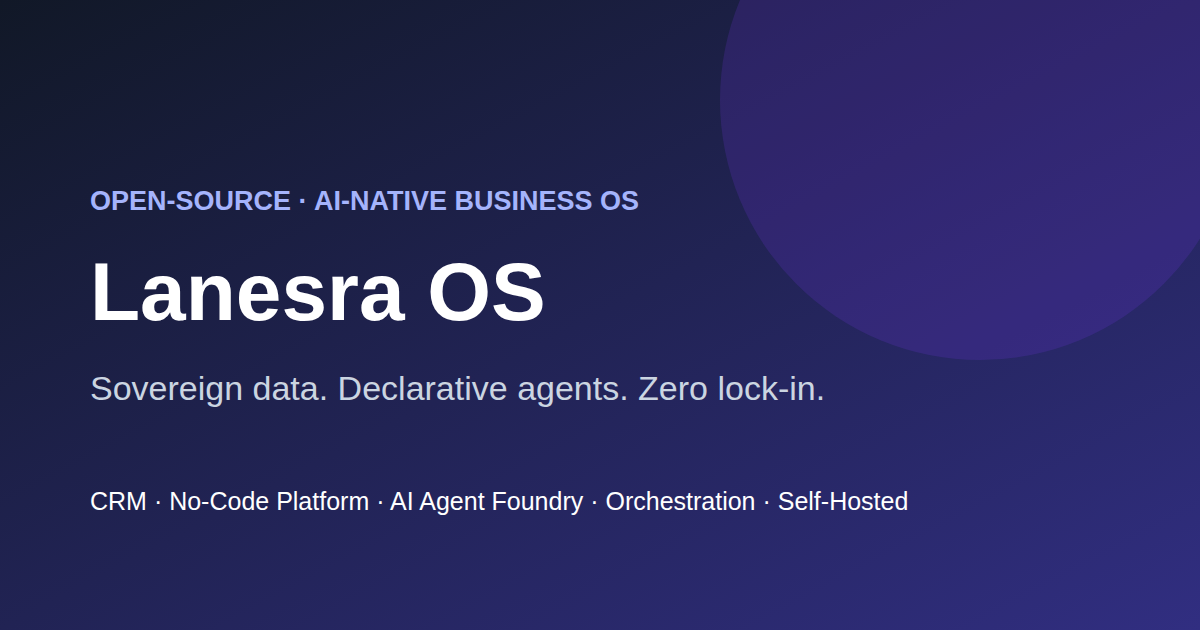
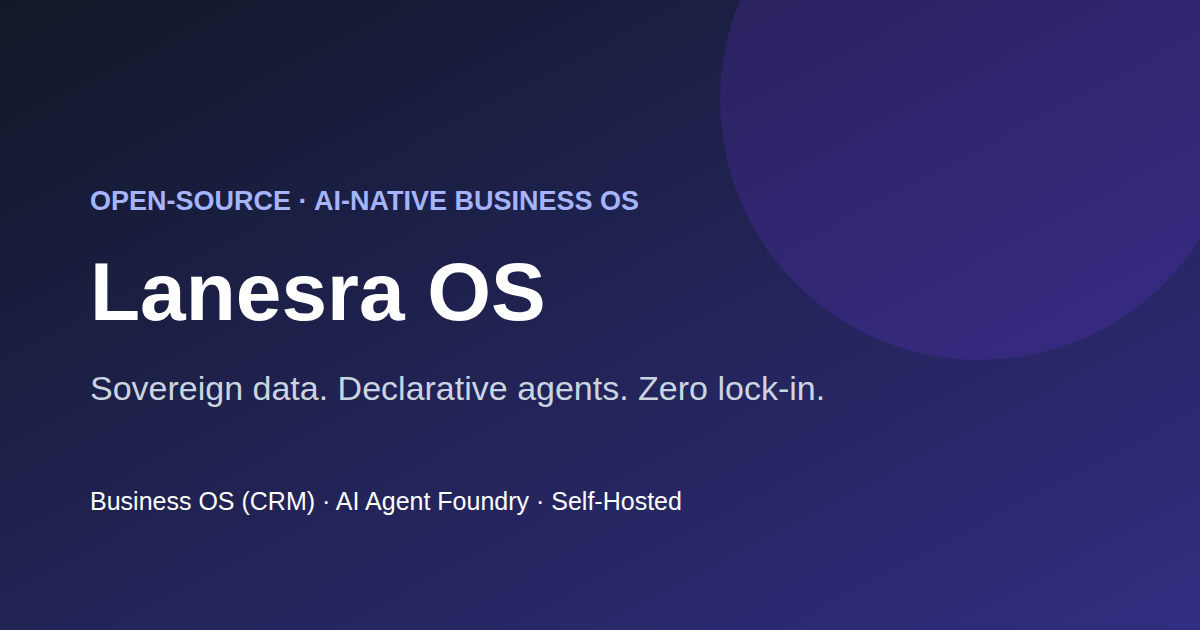
Website/docs copy: sharpen focus to AI Agent Foundry + CRM (Business OS)
The hero already led with this two-pillar story ("Sovereign data.
Declarative agents. Zero lock-in." + "Combine an extensible relational
data model with a unified Agent Foundry...") - this pass carries that
same discipline into the other places product positioning is stated,
which had drifted toward giving 5-6 pillars roughly equal billing:

- social-preview.svg/.png: tag row was "CRM · No-Code Platform · AI Agent
  Foundry · Orchestration · Self-Hosted" (5 items); tightened to
  "Business OS (CRM) · AI Agent Foundry · Self-Hosted". Re-rendered via
  headless Chromium, visually verified.
- index.html: meta description, og:description, twitter:description and
  the JSON-LD SoftwareApplication description all named "a complete CRM,
  a no-code platform... and an AI Agent Foundry" as three co-equal items
  in one list. Reworded so CRM (Business OS) and AI Agent Foundry are the
  two headline nouns, with "the same no-code platform" explicitly framed
  as what both are built on - no facts removed, App Catalog/Deployment
  Management/Integration Hub still named as trailing "Plus" detail.
  applicationSubCategory reordered the same way.
- README.md: opening paragraph reworded the same way; the three Features
  blocks reordered from Make-it-yours-no-code / AI & Agentic Layer / Core
  CRM to Core CRM / AI Agent Foundry / no-code platform, so the two
  headline pillars lead and the no-code platform is explicitly framed as
  what both sit on.
[…]

Changed region(s): [[0.0617, 0.7841, 0.7708, 0.8143]]

diff --git a/index.html b/index.html
@@ -12,11 +12,11 @@
     })
   </script>
   <title>Lanesra OS — The AI-native business operating system</title>
-  <meta name="description" content="Lanesra OS is a free, open-source, self-hostable AI-native business operating system: a complete CRM out of the box, a no-code platform (custom objects, relationships, screens, business rules, workflows, dashboards) to build whatever your business actually runs on, and a real AI Agent Foundry with a Unified AI Gateway - named agents with persona/Actions/Memory/Skills/delegation and guardrails, orchestrated into deterministic Pipelines (sequential, consensus or peer-review) with human-in-the-loop approval gates, OTLP tracing and a real Evaluation Harness, plus embeddings-based Vector Search over your records - routed to Anthropic, OpenAI-compatible or Google Gemini, or a fully local air-gapped model, with automatic failover and token budgets. Plus an App Catalog of 10 ready-to-install industry apps, Deployment Management to package and promote your customizations, and an Integration Hub (REST API, webhooks, connectors, scheduled sync). No licence key, no per-seat pricing, no vendor lock-in. Try it online or run it privately on your desktop." />
+  <meta name="description" content="Lanesra OS is a free, open-source, self-hostable AI-native business operating system: a complete CRM as your Business OS, and a real AI Agent Foundry with a Unified AI Gateway that runs directly on it - named agents with persona/Actions/Memory/Skills/delegation and guardrails, orchestrated into deterministic Pipelines (sequential, consensus or peer-review) with human-in-the-loop approval gates, OTLP tracing and a real Evaluation Harness, plus embeddings-based Vector Search over your records - routed to Anthropic, OpenAI-compatible or Google Gemini, or a fully local air-gapped model, with automatic failover and token budgets. Both are built on the same no-code platform (custom objects, relationships, screens, business rules, workflows, dashboards) you can reshape yourself. Plus an App Catalog of 10 ready-to-install industry apps, Deployment Management to package and promote your customizations, and an Integration Hub (REST API, webhooks, connectors, scheduled sync). No licence key, no per-seat pricing, no vendor lock-in. Try it online or run it privately on your desktop." />
   <meta name="keywords" content="AI-native business operating system, open source CRM, self-hosted CRM, AI agent platform, AI agent framework, model context protocol, MCP server, open source business platform, no-code app builder, low-code platform, Salesforce alternative, HubSpot alternative, custom objects CRM, workflow automation software, CRM with REST API, AI gateway, offline CRM Windows" />
   <link rel="canonical" href="https://lanesraos.com/" />
   <meta property="og:title" content="Lanesra OS — The AI-native business operating system" />
-  <meta property="og:description" content="Sovereign data. Declarative agents. Zero lock-in. A complete CRM, a no-code platform to build on it, and an AI Agent Foundry with orchestration, guardrails, vector search and a Unified AI Gateway - all self-hosted on SQLite, all open source, all running on a model key you control." />
+  <meta property="og:description" content="Sovereign data. Declarative agents. Zero lock-in. A complete CRM as your Business OS, and an AI Agent Foundry that runs directly on it - orchestration, guardrails, vector search and a Unified AI Gateway - built on the same no-code platform you can reshape yourself. All self-hosted on SQLite, all open source, all running on a model key you control." />
   <meta property="og:type" content="website" />
   <meta property="og:url" content="https://lanesraos.com/" />
   <meta property="og:image" content="https://lanesraos.com/social-preview.png" />
@@ -25,7 +25,7 @@
   <meta property="og:image:alt" content="Lanesra OS — the AI-native business operating system" />
   <meta name="twitter:card" content="summary_large_image" />
   <meta name="twitter:title" content="Lanesra OS — The AI-native business operating system" />
-  <meta name="twitter:description" content="Sovereign data. Declarative agents. Zero lock-in. A complete CRM, a no-code platform to build on it, and an AI Agent Foundry with orchestration, guardrails, vector search and a Unified AI Gateway - self-hosted on SQLite, open source, running on a model key you control." />
+  <meta name="twitter:description" content="Sovereign data. Declarative agents. Zero lock-in. A complete CRM as your Business OS, and an AI Agent Foundry that runs directly on it - orchestration, guardrails, vector search and a Unified AI Gateway - self-hosted on SQLite, open source, running on a model key you control." />
   <meta name="twitter:image" content="https://lanesraos.com/social-preview.png" />
   <meta name="theme-color" content="#0A0A0A" />
   <link rel="icon" href="/favicon.svg" type="image/svg+xml" />
@@ -46,9 +46,9 @@
       "@id": "https://lanesraos.com/#software",
       "name": "Lanesra OS",
       "applicationCategory": "BusinessApplication",
-      "applicationSubCategory": "CRM, no-code application platform, AI agent platform, integration platform",
+      "applicationSubCategory": "CRM, AI agent platform, no-code application platform, integration platform",
       "operatingSystem": "Web; Windows desktop in early access (source available)",
-      "description": "A free, open-source and self-hostable AI-native business operating system - a complete CRM out of the box, the same no-code platform for building custom objects, relationships, screens, business rules, workflows, dashboards and reports into whatever a business actually needs, an AI Agent Foundry (named agents with persona/Actions/Memory/Skills/delegation/guardrails) orchestrated into deterministic Pipelines - sequential, consensus or peer-review - with human-in-the-loop approval gates, OTLP tracing and a real Evaluation Harness, a Context Layer with an agent context primer and embeddings-based Vector Search over records, routed through a Unified AI Gateway to Anthropic, OpenAI-compatible or Google Gemini - or a fully local, air-gapped model - with automatic failover and token budgets, an App Catalog of 10 ready-to-install industry apps, Deployment Management to package and version-promote customizations across environments, and an Integration Hub (REST API, webhooks, OpenAPI connectors, scheduled data sync) to connect it to everything else a business already runs.",
+      "description": "A free, open-source and self-hostable AI-native business operating system - a complete CRM out of the box as your Business OS, and an AI Agent Foundry (named agents with persona/Actions/Memory/Skills/delegation/guardrails) that runs directly on it, orchestrated into deterministic Pipelines - sequential, consensus or peer-review - with human-in-the-loop approval gates, OTLP tracing and a real Evaluation Harness, a Context Layer with an agent context primer and embeddings-based Vector Search over records, routed through a Unified AI Gateway to Anthropic, OpenAI-compatible or Google Gemini - or a fully local, air-gapped model - with automatic failover and token budgets. Both the CRM and the Agent Foundry are built on the same no-code platform for shaping custom objects, relationships, screens, business rules, workflows, dashboards and reports into whatever a business actually needs. Plus an App Catalog of 10 ready-to-install industry apps, Deployment Management to package and version-promote customizations across environments, and an Integration Hub (REST API, webhooks, OpenAPI connectors, scheduled data sync) to connect it to everything else a business already runs.",
       "url": "https://lanesraos.com/",
       "isAccessibleForFree": true,
       "softwareVersion": "0.52.0 Early Access",

diff --git a/README.md b/README.md
@@ -5,35 +5,13 @@
 [![PRs welcome](https://img.shields.io/badge/PRs-welcome-brightgreen.svg)](CONTRIBUTING.md)
 [![Try the demo](https://img.shields.io/badge/try%20it-online%20demo-4f7cff)](https://lanesraos.com/demo)
 
-Modern, open-source, AI-native business application platform — a complete CRM out of the box, a no-code admin panel that lets you reshape the workspace itself (your own record types, relationships, screens, business rules and automations, not just the fixed CRM fields), an AI Agent Foundry and Unified AI Gateway that let agents run directly against that same data model, Deployment Management to package and promote your customizations between workspaces, and an Integration Hub to connect it to everything else you run. Run it privately on Windows (offline, no cloud account, no licence key), share it with a small team over your local network, or try it instantly online with no install at all.
+Modern, open-source, AI-native business application platform — a complete CRM as your Business OS, and an AI Agent Foundry and Unified AI Gateway that let named agents run directly against that same data, not a bolted-on chatbot. Both sit on the same no-code admin panel that lets you reshape the workspace itself (your own record types, relationships, screens, business rules and automations, not just the fixed CRM fields), with Deployment Management to package and promote your customizations between workspaces, and an Integration Hub to connect it to everything else you run. Run it privately on Windows (offline, no cloud account, no licence key), share it with a small team over your local network, or try it instantly online with no install at all.
 
 **[Try the demo](https://lanesraos.com/demo)** · **[Download](#download-the-desktop-edition)** · **[Features](#features)** · **[Docs](desktop/README.md)** · **[Contributing](CONTRIBUTING.md)**
 
 ## Features
 
-**Make it yours, no code required:**
-
-- **Custom Objects** — define an entirely new record type (Vendors, Assets, Projects, …) with its own fields, ID format and navigation section, no code change
-- **Custom Relationships** — connect any two record types (built-in or custom) with one-to-one, many-to-one or many-to-many links; a related-records list appears automatically on both sides
-- **Business Rules** — multi-condition AND/OR logic across 10 operators, driving require/hide/lock/set-value/block-save/show-message effects on any field
-- **Workflow Automation** — trigger on a status or field change, a date reached or overdue, or a schedule; create a task, assign an owner, create a related record, update a field, or post an in-app notification
-- **Custom fields** with validation (min/max, length, regex) and capability flags, on every major object, built-in or custom
-- **App Builder** — group a set of objects, their screens and a dashboard into one named, publishable app; grant it to roles or users as Viewer or Editor, enforced server-side on every create/edit/archive and status-lifecycle action, not just hidden in the UI
-- **App Catalog** — install one of 10 ready-made industry apps (Field Service, Property Management, Construction, Professional Services, Practice Administration, Recruitment, Real Estate, Legal Practice, Nonprofit & Association, Auto Repair) with a validated, backed-up, transactional install
-- **Deployment Management** — a Publisher registry, named/versioned Solutions curated from any component you've built, real export/import between workspaces, and update-with-diff — package and promote your customizations the way a real software vendor would
-- **Integration Hub** — AES-256-GCM-encrypted Connections (REST/SFTP/PostgreSQL/OData/SMTP), OpenAPI-imported Connectors usable as Workflow Automation actions, a generic REST API with hashed/scoped API keys, HMAC-SHA256-signed Webhooks with retry, a generalized CSV data-exchange wizard, and scheduled Integration Jobs
-
-**AI & Agentic Layer:**
-
-- **Unified AI Gateway** — bring your own key (Anthropic, an OpenAI-compatible endpoint, Google Gemini, or a fully local/air-gapped model via Ollama), no markup or reselling; automatic primary → fallback → local-fallback failover, per-agent and per-workspace daily token budgets, and forced air-gapping the moment a request touches a sensitive data class you configure
-- **AI Agent Foundry** — named, admin-defined AI Agents: a persona layered over a per-tool Actions checklist, a persistent Memory document the agent revises itself, a shared Skills library, operational guardrails, and delegation to other agents (depth-guarded against runaway recursion); export/import an agent or Skill as part of a Solution, exactly like a Custom Object
-- **Orchestration** — chain agents into a deterministic Pipeline (sequential, consensus, or a peer-review loop); fire it manually, on a schedule, from an authenticated webhook, or as a new Workflow Automation action, with human-in-the-loop approval gates at any topology's own resume point and OTLP tracing on every run — every run lands in one unified history
-- **Evaluation Harness** — a named Suite of golden test cases, each graded by an LLM-as-judge call against an Agent or Pipeline's real response, not a brittle exact-match
-- **Native Model Context Protocol server & CLI** — exposes your Custom Objects, records and business logic to Claude Desktop, an IDE agent, or any MCP-capable client over JSON-RPC 2.0, authenticated with the same scoped API keys the REST API already uses
-- **Chat Assistant** — a conversational assistant with real tool access to your records, and, for an Administrator, to the admin configuration surface itself, including an agent context primer (relationship metadata and a live platform overview) so an agent understands how your own workspace is actually built
-- **Context Layer & Vector Search** — real change history for an agent's own Memory, ranked full-text search over Custom Object records (SQLite FTS5), and optional embeddings-based semantic search via your own already-configured provider — no bundled vector database
-
-**The core CRM:**
+**The core CRM — your Business OS:**
 
 - **Companies, Contacts & Sales Pipeline** — connected customer records with a Kanban/list opportunity pipeline
 - **Products & Services**, **Quotes**, **Orders**, **Invoices**, **Contracts**, **Tasks** — the full flexible sales lifecycle (Company → Opportunity → Quote → Order → Invoice), plus direct-quote/direct-order shortcuts
@@ -44,6 +22,28 @@ Modern, open-source, AI-native business application platform — a complete CRM 
 - Windows task reminder notifications, session inactivity auto-lock
 - CSV import/export, whole-workspace backup & restore, self-service password change
 - Runs fully offline — no cloud account, licence key, or mandatory internet connection
+
+**AI Agent Foundry — agents that run directly on that same CRM data:**
+
+- **Unified AI Gateway** — bring your own key (Anthropic, an OpenAI-compatible endpoint, Google Gemini, or a fully local/air-gapped model via Ollama), no markup or reselling; automatic primary → fallback → local-fallback failover, per-agent and per-workspace daily token budgets, and forced air-gapping the moment a request touches a sensitive data class you configure
+- **AI Agent Foundry** — named, admin-defined AI Agents: a persona layered over a per-tool Actions checklist, a persistent Memory document the agent revises itself, a shared Skills library, operational guardrails, and delegation to other agents (depth-guarded against runaway recursion); export/import an agent or Skill as part of a Solution, exactly like a Custom Object
+- **Orchestration** — chain agents into a deterministic Pipeline (sequential, consensus, or a peer-review loop); fire it manually, on a schedule, from an authenticated webhook, or as a new Workflow Automation action, with human-in-the-loop approval gates at any topology's own resume point and OTLP tracing on every run — every run lands in one unified history
+- **Evaluation Harness** — a named Suite of golden test cases, each graded by an LLM-as-judge call against an Agent or Pipeline's real response, not a brittle exact-match
+- **Native Model Context Protocol server & CLI** — exposes your Custom Objects, records and business logic to Claude Desktop, an IDE agent, or any MCP-capable client over JSON-RPC 2.0, authenticated with the same scoped API keys the REST API already uses
+- **Chat Assistant** — a conversational assistant with real tool access to your records, and, for an Administrator, to the admin configuration surface itself, including an agent context primer (relationship metadata and a live platform overview) so an agent understands how your own workspace is actually built
+- **Context Layer & Vector Search** — real change history for an agent's own Memory, ranked full-text search over Custom Object records (SQLite FTS5), and optional embeddings-based semantic search via your own already-configured provider — no bundled vector database
+
+**Both are built on one no-code platform, make it yours:**
+
+- **Custom Objects** — define an entirely new record type (Vendors, Assets, Projects, …) with its own fields, ID format and navigation section, no code change
+- **Custom Relationships** — connect any two record types (built-in or custom) with one-to-one, many-to-one or many-to-many links; a related-records list appears automatically on both sides
+- **Business Rules** — multi-condition AND/OR logic across 10 operators, driving require/hide/lock/set-value/block-save/show-message effects on any field
+- **Workflow Automation** — trigger on a status or field change, a date reached or overdue, or a schedule; create a task, assign an owner, create a related record, update a field, or post an in-app notification
+- **Custom fields** with validation (min/max, length, regex) and capability flags, on every major object, built-in or custom
+- **App Builder** — group a set of objects, their screens and a dashboard into one named, publishable app; grant it to roles or users as Viewer or Editor, enforced server-side on every create/edit/archive and status-lifecycle action, not just hidden in the UI
+- **App Catalog** — install one of 10 ready-made industry apps (Field Service, Property Management, Construction, Professional Services, Practice Administration, Recruitment, Real Estate, Legal Practice, Nonprofit & Association, Auto Repair) with a validated, backed-up, transactional install
+- **Deployment Management** — a Publisher registry, named/versioned Solutions curated from any component you've built, real export/import between workspaces, and update-with-diff — package and promote your customizations the way a real software vendor would
+- **Integration Hub** — AES-256-GCM-encrypted Connections (REST/SFTP/PostgreSQL/OData/SMTP), OpenAPI-imported Connectors usable as Workflow Automation actions, a generic REST API with hashed/scoped API keys, HMAC-SHA256-signed Webhooks with retry, a generalized CSV data-exchange wizard, and scheduled Integration Jobs
 
 ## Try it online
 
